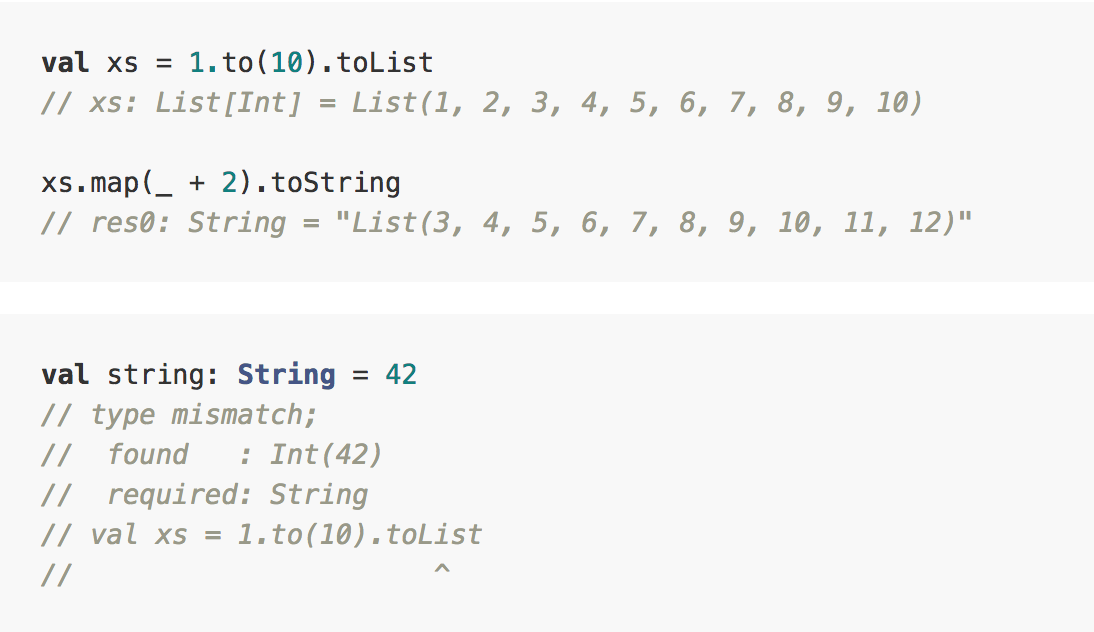
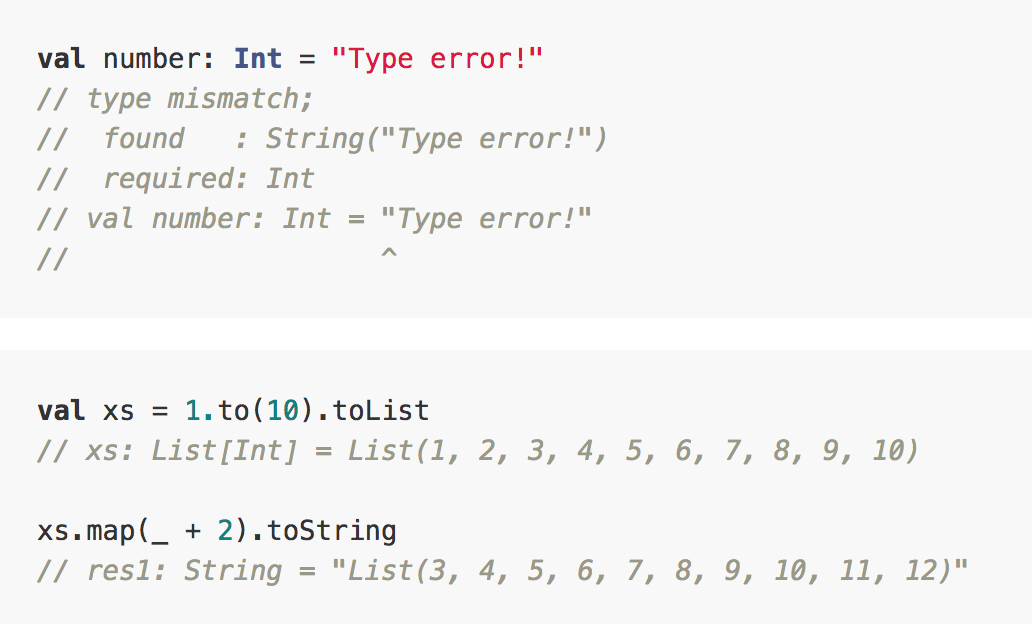
Polish website

diff --git a/website/siteConfig.js b/website/siteConfig.js
@@ -6,7 +6,7 @@ const gitterUrl = "https://gitter.im/olafurpg/sbt-docusaurus";
 
 const siteConfig = {
   title: "sbt-docusaurus",
-  tagline: "Easy and fast documentation for Scala open source projects",
+  tagline: "Use Docusaurus for Scala open source projects",
   url: "https://olafurpg.github.io/sbt-docusaurus",
   baseUrl: "/sbt-docusaurus/",
 

diff --git a/docs/installation.md b/docs/installation.md
@@ -89,6 +89,10 @@ xs.map(_ + 2).toString
 
 The code example will be interpreted by the Scala compiler and render like this
 
+```scala mdoc:fail
+val number: Int = "Type error!"
+```
+
 ```scala mdoc
 val xs = 1.to(10).toList
 xs.map(_ + 2).toString
